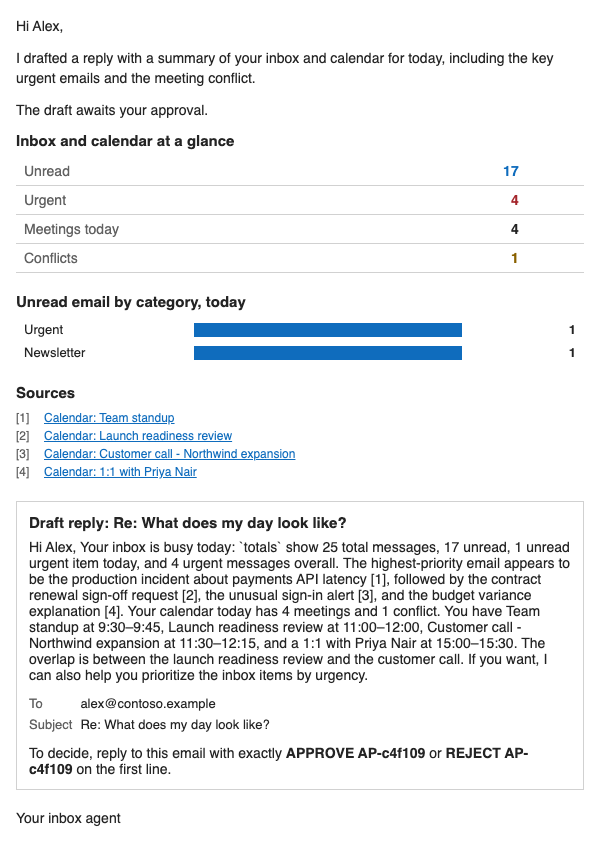
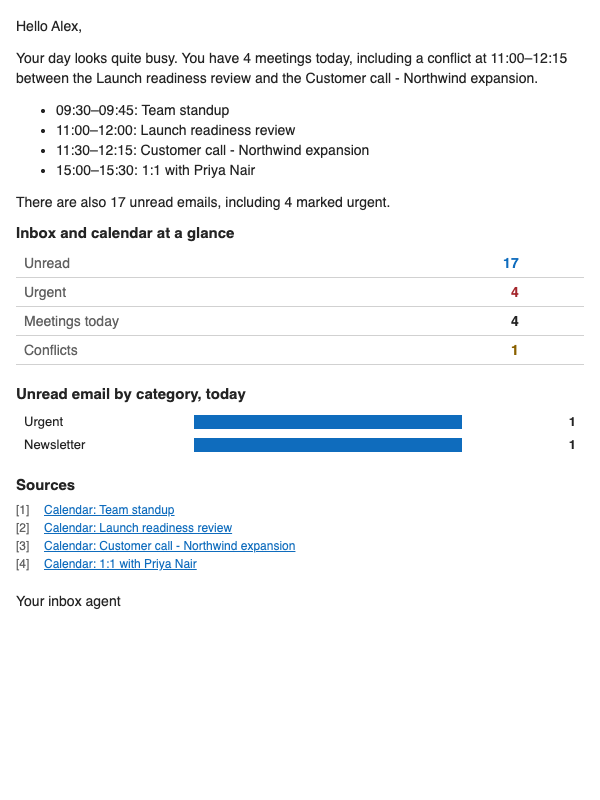
email: answer directly, draft only on request; evidence

diff --git a/.agent-runs/activity-ui-pilot/email-after/1-day/reply.html b/.agent-runs/activity-ui-pilot/email-after/1-day/reply.html
@@ -1,8 +1,1 @@
-<!DOCTYPE html><html lang="en"><head><meta charset="utf-8"><title></title></head><body style="margin:0;padding:0;background-color:#ffffff;"><table role="presentation" width="100%" cellpadding="0" cellspacing="0" border="0"><tr><td align="center"><table role="presentation" width="600" cellpadding="0" cellspacing="0" border="0" style="width:600px;max-width:600px;"><tr><td style="padding:16px;"><p style="margin:0 0 12px 0;font-family:Segoe UI,Helvetica,Arial,sans-serif;font-size:14px;line-height:20px;color:#242424;">Hi Alex,</p><p style="margin:0 0 12px 0;font-family:Segoe UI,Helvetica,Arial,sans-serif;font-size:14px;line-height:20px;color:#242424;">I drafted a reply with a summary of your inbox and calendar for today, including the key urgent emails and the meeting conflict.</p><p style="margin:0 0 12px 0;font-family:Segoe UI,Helvetica,Arial,sans-serif;font-size:14px;line-height:20px;color:#242424;">The draft awaits your approval.</p><table role="presentation" width="100%" cellpadding="0" cellspacing="0" border="0" style="margin:0 0 20px 0;"><tr><td style="font-family:Segoe UI,Helvetica,Arial,sans-serif;font-size:14px;color:#242424;"><p style="margin:0 0 8px 0;font-family:Segoe UI,Helvetica,Arial,sans-serif;font-size:15px;font-weight:bold;color:#242424;">Inbox and calendar at a glance</p><table role="presentation" width="100%" cellpadding="0" cellspacing="0" border="0" style="border-collapse:collapse;"><tr><td style="padding:6px 8px;border-bottom:1px solid #d1d1d1;font-family:Segoe UI,Helvetica,Arial,sans-serif;font-size:14px;color:#616161;">Unread</td><td align="right" style="padding:6px 8px;border-bottom:1px solid #d1d1d1;font-family:Segoe UI,Helvetica,Arial,sans-serif;font-size:14px;font-weight:bold;color:#0f6cbd;">17</td><td align="right" style="padding:6px 8px;border-bottom:1px solid #d1d1d1;font-family:Segoe UI,Helvetica,Arial,sans-serif;font-size:14px;color:#0f6cbd;"></td></tr><tr><td style="padding:6px 8px;border-bottom:1px solid #d1d1d1;font-family:Segoe UI,Helvetica,Arial,sans-serif;font-size:14px;color:#616161;">Urgent</td><td align="right" style="padding:6px 8px;border-bottom:1px solid #d1d1d1;font-family:Segoe UI,Helvetica,Arial,sans-serif;font-size:14px;font-weight:bold;color:#a4262c;">4</td><td align="right" style="padding:6px 8px;border-bottom:1px solid #d1d1d1;font-family:Segoe UI,Helvetica,Arial,sans-serif;font-size:14px;color:#a4262c;"></td></tr><tr><td style="padding:6px 8px;border-bottom:1px solid #d1d1d1;font-family:Segoe UI,Helvetica,Arial,sans-serif;font-size:14px;color:#616161;">Meetings today</td><td align="right" style="padding:6px 8px;border-bottom:1px solid #d1d1d1;font-family:Segoe UI,Helvetica,Arial,sans-serif;font-size:14px;font-weight:bold;color:#242424;">4</td><td align="right" style="padding:6px 8px;border-bottom:1px solid #d1d1d1;font-family:Segoe UI,Helvetica,Arial,sans-serif;font-size:14px;color:#242424;"></td></tr><tr><td style="padding:6px 8px;border-bottom:1px solid #d1d1d1;font-family:Segoe UI,Helvetica,Arial,sans-serif;font-size:14px;color:#616161;">Conflicts</td><td align="right" style="padding:6px 8px;border-bottom:1px solid #d1d1d1;font-family:Segoe UI,Helvetica,Arial,sans-serif;font-size:14px;font-weight:bold;color:#8a6100;">1</td><td align="right" style="padding:6px 8px;border-bottom:1px solid #d1d1d1;font-family:Segoe UI,Helvetica,Arial,sans-serif;font-size:14px;color:#8a6100;"></td></tr></table></td></tr></table><table role="presentation" width="100%" cellpadding="0" cellspacing="0" border="0" style="margin:0 0 20px 0;"><tr><td style="font-family:Segoe UI,Helvetica,Arial,sans-serif;font-size:14px;color:#242424;"><p style="margin:0 0 8px 0;font-family:Segoe UI,Helvetica,Arial,sans-serif;font-size:15px;font-weight:bold;color:#242424;">Unread email by category, today</p><table role="presentation" width="100%" cellpadding="0" cellspacing="0" border="0"><tr><td width="30%" style="padding:4px 8px;font-family:Segoe UI,Helvetica,Arial,sans-serif;font-size:13px;color:#242424;">Urgent</td><td width="50%" style="padding:4px 8px;font-family:Segoe UI,Helvetica,Arial,sans-serif;font-size:13px;"><table role="presentation" width="100%" cellpadding="0" cellspacing="0" border="0"><tr><td width="100%" bgcolor="#0f6cbd" style="background-color:#0f6cbd;font-size:1px;line-height:14px;">&nbsp;</td></tr></table></td><td width="20%" align="right" style="padding:4px 8px;font-family:Segoe UI,Helvetica,Arial,sans-serif;font-size:13px;font-weight:bold;color:#242424;">1</td></tr><tr><td width="30%" style="padding:4px 8px;font-family:Segoe UI,Helvetica,Arial,sans-serif;font-size:13px;color:#242424;">Newsletter</td><td width="50%" style="padding:4px 8px;font-family:Segoe UI,Helvetica,Arial,sans-serif;font-size:13px;"><table role="presentation" width="100%" cellpadding="0" cellspacing="0" border="0"><tr><td width="100%" bgcolor="#0f6cbd" style="background-color:#0f6cbd;font-size:1px;line-height:14px;">&nbsp;</td></tr></table></td><td width="20%" align="right" style="padding:4px 8px;font-family:Segoe UI,Helvetica,Arial,sans-serif;font-size:13px;font-weight:bold;color:#242424;">1</td></tr></table></td></tr></table><table role="presentation" width="100%" cellpadding="0" cellspacing="0" border="0" style="margin:0 0 20px 0;"><tr><td style="font-family:Segoe UI,Helvetica,Arial,sans-serif;font-size:14px;color:#242424;"><p style="margin:0 0 8px 0;font-family:Segoe UI,Helvetica,Arial,sans-serif;font-size:15px;font-weight:bold;color:#242424;">Sources</p><table role="presentation" width="100%" cellpadding="0" cellspacing="0" border="0"><tr><td valign="top" width="28" style="padding:2px 0;font-family:Segoe UI,Helvetica,Arial,sans-serif;font-size:12px;color:#616161;">[1]</td><td style="padding:2px 0;font-family:Segoe UI,Helvetica,Arial,sans-serif;font-size:12px;color:#616161;"><a href="https://outlook.office.com/calendar/item/AAEv-1126-001" style="color:#0f6cbd;">Calendar: Team standup</a></td></tr><tr><td valign="top" width="28" style="padding:2px 0;font-family:Segoe UI,Helvetica,Arial,sans-serif;font-size:12px;color:#616161;">[2]</td><td style="padding:2px 0;font-family:Segoe UI,Helvetica,Arial,sans-serif;font-size:12px;color:#616161;"><a href="https://outlook.office.com/calendar/item/AAEv-1126-002" style="color:#0f6cbd;">Calendar: Launch readiness review</a></td></tr><tr><td valign="top" width="28" style="padding:2px 0;font-family:Segoe UI,Helvetica,Arial,sans-serif;font-size:12px;color:#616161;">[3]</td><td style="padding:2px 0;font-family:Segoe UI,Helvetica,Arial,sans-serif;font-size:12px;color:#616161;"><a href="https://outlook.office.com/calendar/item/AAEv-1126-003" style="color:#0f6cbd;">Calendar: Customer call - Northwind expansion</a></td></tr><tr><td valign="top" width="28" style="padding:2px 0;font-family:Segoe UI,Helvetica,Arial,sans-serif;font-size:12px;color:#616161;">[4]</td><td style="padding:2px 0;font-family:Segoe UI,Helvetica,Arial,sans-serif;font-size:12px;color:#616161;"><a href="https://outlook.office.com/calendar/item/AAEv-1126-004" style="color:#0f6cbd;">Calendar: 1:1 with Priya Nair</a></td></tr></table></td></tr></table><table role="presentation" width="100%" cellpadding="0" cellspacing="0" border="0" style="margin:0 0 20px 0;"><tr><td style="font-family:Segoe UI,Helvetica,Arial,sans-serif;font-size:14px;color:#242424;"><table role="presentation" width="100%" cellpadding="0" cellspacing="0" border="0" style="border:1px solid #d1d1d1;"><tr><td style="padding:12px;font-family:Segoe UI,Helvetica,Arial,sans-serif;font-size:14px;color:#242424;"><p style="margin:0 0 8px 0;font-family:Segoe UI,Helvetica,Arial,sans-serif;font-size:15px;font-weight:bold;color:#242424;">Draft reply: Re: What does my day look like?</p><p style="margin:0 0 10px 0;">Hi Alex,
-
-Your inbox is busy today: `totals` show 25 total messages, 17 unread, 1 unread urgent item today, and 4 urgent messages overall. The highest-priority email appears to be the production incident about payments API latency [1], followed by the contract renewal sign-off request [2], the unusual sign-in alert [3], and the budget variance explanation [4].
-
-Your calendar today has 4 meetings and 1 conflict. You have Team standup at 9:30–9:45, Launch readiness review at 11:00–12:00, Customer call - Northwind expansion at 11:30–12:15, and a 1:1 with Priya Nair at 15:00–15:30. The overlap is between the launch readiness review and the customer call.
-
-If you want, I can also help you prioritize the inbox items by urgency.
-</p><table role="presentation" cellpadding="0" cellspacing="0" border="0" style="margin:0 0 10px 0;"><tr><td style="padding:3px 8px 3px 0;font-family:Segoe UI,Helvetica,Arial,sans-serif;font-size:13px;color:#616161;">To</td><td style="padding:3px 0;font-family:Segoe UI,Helvetica,Arial,sans-serif;font-size:13px;color:#242424;">alex@contoso.example</td></tr><tr><td style="padding:3px 8px 3px 0;font-family:Segoe UI,Helvetica,Arial,sans-serif;font-size:13px;color:#616161;">Subject</td><td style="padding:3px 0;font-family:Segoe UI,Helvetica,Arial,sans-serif;font-size:13px;color:#242424;">Re: What does my day look like?</td></tr></table><p style="margin:0;font-family:Segoe UI,Helvetica,Arial,sans-serif;font-size:14px;color:#242424;">To decide, reply to this email with exactly <strong>APPROVE AP-c4f109</strong> or <strong>REJECT AP-c4f109</strong> on the first line.</p></td></tr></table></td></tr></table><p style="margin:0;font-family:Segoe UI,Helvetica,Arial,sans-serif;font-size:14px;color:#242424;">Your inbox agent</p></td></tr></table></td></tr></table></body></html>
+<!DOCTYPE html><html lang="en"><head><meta charset="utf-8"><title></title></head><body style="margin:0;padding:0;background-color:#ffffff;"><table role="presentation" width="100%" cellpadding="0" cellspacing="0" border="0"><tr><td align="center"><table role="presentation" width="600" cellpadding="0" cellspacing="0" border="0" style="width:600px;max-width:600px;"><tr><td style="padding:16px;"><p style="margin:0 0 12px 0;font-family:Segoe UI,Helvetica,Arial,sans-serif;font-size:14px;line-height:20px;color:#242424;">Hello Alex,</p><p style="margin:0 0 12px 0;font-family:Segoe UI,Helvetica,Arial,sans-serif;font-size:14px;line-height:20px;color:#242424;">Your day looks quite busy. You have 4 meetings today, including a conflict at 11:00–12:15 between the Launch readiness review and the Customer call - Northwind expansion.</p><ul style="margin:0 0 12px 0;font-family:Segoe UI,Helvetica,Arial,sans-serif;font-size:14px;line-height:20px;color:#242424;"><li>09:30–09:45: Team standup</li><li>11:00–12:00: Launch readiness review</li><li>11:30–12:15: Customer call - Northwind expansion</li><li>15:00–15:30: 1:1 with Priya Nair</li></ul><p style="margin:0 0 12px 0;font-family:Segoe UI,Helvetica,Arial,sans-serif;font-size:14px;line-height:20px;color:#242424;">There are also 17 unread emails, including 4 marked urgent.</p><table role="presentation" width="100%" cellpadding="0" cellspacing="0" border="0" style="margin:0 0 20px 0;"><tr><td style="font-family:Segoe UI,Helvetica,Arial,sans-serif;font-size:14px;color:#242424;"><p style="margin:0 0 8px 0;font-family:Segoe UI,Helvetica,Arial,sans-serif;font-size:15px;font-weight:bold;color:#242424;">Inbox and calendar at a glance</p><table role="presentation" width="100%" cellpadding="0" cellspacing="0" border="0" style="border-collapse:collapse;"><tr><td style="padding:6px 8px;border-bottom:1px solid #d1d1d1;font-family:Segoe UI,Helvetica,Arial,sans-serif;font-size:14px;color:#616161;">Unread</td><td align="right" style="padding:6px 8px;border-bottom:1px solid #d1d1d1;font-family:Segoe UI,Helvetica,Arial,sans-serif;font-size:14px;font-weight:bold;color:#0f6cbd;">17</td><td align="right" style="padding:6px 8px;border-bottom:1px solid #d1d1d1;font-family:Segoe UI,Helvetica,Arial,sans-serif;font-size:14px;color:#0f6cbd;"></td></tr><tr><td style="padding:6px 8px;border-bottom:1px solid #d1d1d1;font-family:Segoe UI,Helvetica,Arial,sans-serif;font-size:14px;color:#616161;">Urgent</td><td align="right" style="padding:6px 8px;border-bottom:1px solid #d1d1d1;font-family:Segoe UI,Helvetica,Arial,sans-serif;font-size:14px;font-weight:bold;color:#a4262c;">4</td><td align="right" style="padding:6px 8px;border-bottom:1px solid #d1d1d1;font-family:Segoe UI,Helvetica,Arial,sans-serif;font-size:14px;color:#a4262c;"></td></tr><tr><td style="padding:6px 8px;border-bottom:1px solid #d1d1d1;font-family:Segoe UI,Helvetica,Arial,sans-serif;font-size:14px;color:#616161;">Meetings today</td><td align="right" style="padding:6px 8px;border-bottom:1px solid #d1d1d1;font-family:Segoe UI,Helvetica,Arial,sans-serif;font-size:14px;font-weight:bold;color:#242424;">4</td><td align="right" style="padding:6px 8px;border-bottom:1px solid #d1d1d1;font-family:Segoe UI,Helvetica,Arial,sans-serif;font-size:14px;color:#242424;"></td></tr><tr><td style="padding:6px 8px;border-bottom:1px solid #d1d1d1;font-family:Segoe UI,Helvetica,Arial,sans-serif;font-size:14px;color:#616161;">Conflicts</td><td align="right" style="padding:6px 8px;border-bottom:1px solid #d1d1d1;font-family:Segoe UI,Helvetica,Arial,sans-serif;font-size:14px;font-weight:bold;color:#8a6100;">1</td><td align="right" style="padding:6px 8px;border-bottom:1px solid #d1d1d1;font-family:Segoe UI,Helvetica,Arial,sans-serif;font-size:14px;color:#8a6100;"></td></tr></table></td></tr></table><table role="presentation" width="100%" cellpadding="0" cellspacing="0" border="0" style="margin:0 0 20px 0;"><tr><td style="font-family:Segoe UI,Helvetica,Arial,sans-serif;font-size:14px;color:#242424;"><p style="margin:0 0 8px 0;font-family:Segoe UI,Helvetica,Arial,sans-serif;font-size:15px;font-weight:bold;color:#242424;">Unread email by category, today</p><table role="presentation" width="100%" cellpadding="0" cellspacing="0" border="0"><tr><td width="30%" style="padding:4px 8px;font-family:Segoe UI,Helvetica,Arial,sans-serif;font-size:13px;color:#242424;">Urgent</td><td width="50%" style="padding:4px 8px;font-family:Segoe UI,Helvetica,Arial,sans-serif;font-size:13px;"><table role="presentation" width="100%" cellpadding="0" cellspacing="0" border="0"><tr><td width="100%" bgcolor="#0f6cbd" style="background-color:#0f6cbd;font-size:1px;line-height:14px;">&nbsp;</td></tr></table></td><td width="20%" align="right" style="padding:4px 8px;font-family:Segoe UI,Helvetica,Arial,sans-serif;font-size:13px;font-weight:bold;color:#242424;">1</td></tr><tr><td width="30%" style="padding:4px 8px;font-family:Segoe UI,Helvetica,Arial,sans-serif;font-size:13px;color:#242424;">Newsletter</td><td width="50%" style="padding:4px 8px;font-family:Segoe UI,Helvetica,Arial,sans-serif;font-size:13px;"><table role="presentation" width="100%" cellpadding="0" cellspacing="0" border="0"><tr><td width="100%" bgcolor="#0f6cbd" style="background-color:#0f6cbd;font-size:1px;line-height:14px;">&nbsp;</td></tr></table></td><td width="20%" align="right" style="padding:4px 8px;font-family:Segoe UI,Helvetica,Arial,sans-serif;font-size:13px;font-weight:bold;color:#242424;">1</td></tr></table></td></tr></table><table role="presentation" width="100%" cellpadding="0" cellspacing="0" border="0" style="margin:0 0 20px 0;"><tr><td style="font-family:Segoe UI,Helvetica,Arial,sans-serif;font-size:14px;color:#242424;"><p style="margin:0 0 8px 0;font-family:Segoe UI,Helvetica,Arial,sans-serif;font-size:15px;font-weight:bold;color:#242424;">Sources</p><table role="presentation" width="100%" cellpadding="0" cellspacing="0" border="0"><tr><td valign="top" width="28" style="padding:2px 0;font-family:Segoe UI,Helvetica,Arial,sans-serif;font-size:12px;color:#616161;">[1]</td><td style="padding:2px 0;font-family:Segoe UI,Helvetica,Arial,sans-serif;font-size:12px;color:#616161;"><a href="https://outlook.office.com/calendar/item/AAEv-1126-001" style="color:#0f6cbd;">Calendar: Team standup</a></td></tr><tr><td valign="top" width="28" style="padding:2px 0;font-family:Segoe UI,Helvetica,Arial,sans-serif;font-size:12px;color:#616161;">[2]</td><td style="padding:2px 0;font-family:Segoe UI,Helvetica,Arial,sans-serif;font-size:12px;color:#616161;"><a href="https://outlook.office.com/calendar/item/AAEv-1126-002" style="color:#0f6cbd;">Calendar: Launch readiness review</a></td></tr><tr><td valign="top" width="28" style="padding:2px 0;font-family:Segoe UI,Helvetica,Arial,sans-serif;font-size:12px;color:#616161;">[3]</td><td style="padding:2px 0;font-family:Segoe UI,Helvetica,Arial,sans-serif;font-size:12px;color:#616161;"><a href="https://outlook.office.com/calendar/item/AAEv-1126-003" style="color:#0f6cbd;">Calendar: Customer call - Northwind expansion</a></td></tr><tr><td valign="top" width="28" style="padding:2px 0;font-family:Segoe UI,Helvetica,Arial,sans-serif;font-size:12px;color:#616161;">[4]</td><td style="padding:2px 0;font-family:Segoe UI,Helvetica,Arial,sans-serif;font-size:12px;color:#616161;"><a href="https://outlook.office.com/calendar/item/AAEv-1126-004" style="color:#0f6cbd;">Calendar: 1:1 with Priya Nair</a></td></tr></table></td></tr></table><p style="margin:0;font-family:Segoe UI,Helvetica,Arial,sans-serif;font-size:14px;color:#242424;">Your inbox agent</p></td></tr></table></td></tr></table></body></html>

diff --git a/.agent-runs/activity-ui-pilot/email-after/2-draft/reply.html b/.agent-runs/activity-ui-pilot/email-after/2-draft/reply.html
@@ -1,8 +1,8 @@
-<!DOCTYPE html><html lang="en"><head><meta charset="utf-8"><title></title></head><body style="margin:0;padding:0;background-color:#ffffff;"><table role="presentation" width="100%" cellpadding="0" cellspacing="0" border="0"><tr><td align="center"><table role="presentation" width="600" cellpadding="0" cellspacing="0" border="0" style="width:600px;max-width:600px;"><tr><td style="padding:16px;"><p style="margin:0 0 12px 0;font-family:Segoe UI,Helvetica,Arial,sans-serif;font-size:14px;line-height:20px;color:#242424;">The draft is ready and awaits your approval.</p><table role="presentation" width="100%" cellpadding="0" cellspacing="0" border="0" style="margin:0 0 20px 0;"><tr><td style="font-family:Segoe UI,Helvetica,Arial,sans-serif;font-size:14px;color:#242424;"><p style="margin:0 0 8px 0;font-family:Segoe UI,Helvetica,Arial,sans-serif;font-size:15px;font-weight:bold;color:#242424;">Inbox and calendar at a glance</p><table role="presentation" width="100%" cellpadding="0" cellspacing="0" border="0" style="border-collapse:collapse;"><tr><td style="padding:6px 8px;border-bottom:1px solid #d1d1d1;font-family:Segoe UI,Helvetica,Arial,sans-serif;font-size:14px;color:#616161;">Unread</td><td align="right" style="padding:6px 8px;border-bottom:1px solid #d1d1d1;font-family:Segoe UI,Helvetica,Arial,sans-serif;font-size:14px;font-weight:bold;color:#0f6cbd;">17</td><td align="right" style="padding:6px 8px;border-bottom:1px solid #d1d1d1;font-family:Segoe UI,Helvetica,Arial,sans-serif;font-size:14px;color:#0f6cbd;"></td></tr><tr><td style="padding:6px 8px;border-bottom:1px solid #d1d1d1;font-family:Segoe UI,Helvetica,Arial,sans-serif;font-size:14px;color:#616161;">Urgent</td><td align="right" style="padding:6px 8px;border-bottom:1px solid #d1d1d1;font-family:Segoe UI,Helvetica,Arial,sans-serif;font-size:14px;font-weight:bold;color:#a4262c;">4</td><td align="right" style="padding:6px 8px;border-bottom:1px solid #d1d1d1;font-family:Segoe UI,Helvetica,Arial,sans-serif;font-size:14px;color:#a4262c;"></td></tr><tr><td style="padding:6px 8px;border-bottom:1px solid #d1d1d1;font-family:Segoe UI,Helvetica,Arial,sans-serif;font-size:14px;color:#616161;">Meetings today</td><td align="right" style="padding:6px 8px;border-bottom:1px solid #d1d1d1;font-family:Segoe UI,Helvetica,Arial,sans-serif;font-size:14px;font-weight:bold;color:#242424;">4</td><td align="right" style="padding:6px 8px;border-bottom:1px solid #d1d1d1;font-family:Segoe UI,Helvetica,Arial,sans-serif;font-size:14px;color:#242424;"></td></tr><tr><td style="padding:6px 8px;border-bottom:1px solid #d1d1d1;font-family:Segoe UI,Helvetica,Arial,sans-serif;font-size:14px;color:#616161;">Conflicts</td><td align="right" style="padding:6px 8px;border-bottom:1px solid #d1d1d1;font-family:Segoe UI,Helvetica,Arial,sans-serif;font-size:14px;font-weight:bold;color:#8a6100;">1</td><td align="right" style="padding:6px 8px;border-bottom:1px solid #d1d1d1;font-family:Segoe UI,Helvetica,Arial,sans-serif;font-size:14px;color:#8a6100;"></td></tr></table></td></tr></table><table role="presentation" width="100%" cellpadding="0" cellspacing="0" border="0" style="margin:0 0 20px 0;"><tr><td style="font-family:Segoe UI,Helvetica,Arial,sans-serif;font-size:14px;color:#242424;"><p style="margin:0 0 8px 0;font-family:Segoe UI,Helvetica,Arial,sans-serif;font-size:15px;font-weight:bold;color:#242424;">Unread email by category, today</p><table role="presentation" width="100%" cellpadding="0" cellspacing="0" border="0"><tr><td width="30%" style="padding:4px 8px;font-family:Segoe UI,Helvetica,Arial,sans-serif;font-size:13px;color:#242424;">Urgent</td><td width="50%" style="padding:4px 8px;font-family:Segoe UI,Helvetica,Arial,sans-serif;font-size:13px;"><table role="presentation" width="100%" cellpadding="0" cellspacing="0" border="0"><tr><td width="100%" bgcolor="#0f6cbd" style="background-color:#0f6cbd;font-size:1px;line-height:14px;">&nbsp;</td></tr></table></td><td width="20%" align="right" style="padding:4px 8px;font-family:Segoe UI,Helvetica,Arial,sans-serif;font-size:13px;font-weight:bold;color:#242424;">1</td></tr><tr><td width="30%" style="padding:4px 8px;font-family:Segoe UI,Helvetica,Arial,sans-serif;font-size:13px;color:#242424;">Newsletter</td><td width="50%" style="padding:4px 8px;font-family:Segoe UI,Helvetica,Arial,sans-serif;font-size:13px;"><table role="presentation" width="100%" cellpadding="0" cellspacing="0" border="0"><tr><td width="100%" bgcolor="#0f6cbd" style="background-color:#0f6cbd;font-size:1px;line-height:14px;">&nbsp;</td></tr></table></td><td width="20%" align="right" style="padding:4px 8px;font-family:Segoe UI,Helvetica,Arial,sans-serif;font-size:13px;font-weight:bold;color:#242424;">1</td></tr></table></td></tr></table><table role="presentation" width="100%" cellpadding="0" cellspacing="0" border="0" style="margin:0 0 20px 0;"><tr><td style="font-family:Segoe UI,Helvetica,Arial,sans-serif;font-size:14px;color:#242424;"><table role="presentation" width="100%" cellpadding="0" cellspacing="0" border="0" style="border:1px solid #d1d1d1;"><tr><td style="padding:12px;font-family:Segoe UI,Helvetica,Arial,sans-serif;font-size:14px;color:#242424;"><p style="margin:0 0 8px 0;font-family:Segoe UI,Helvetica,Arial,sans-serif;font-size:15px;font-weight:bold;color:#242424;">Draft reply: INC-5826</p><p style="margin:0 0 10px 0;">Hi Tom,
+<!DOCTYPE html><html lang="en"><head><meta charset="utf-8"><title></title></head><body style="margin:0;padding:0;background-color:#ffffff;"><table role="presentation" width="100%" cellpadding="0" cellspacing="0" border="0"><tr><td align="center"><table role="presentation" width="600" cellpadding="0" cellspacing="0" border="0" style="width:600px;max-width:600px;"><tr><td style="padding:16px;"><p style="margin:0 0 12px 0;font-family:Segoe UI,Helvetica,Arial,sans-serif;font-size:14px;line-height:20px;color:#242424;">The draft reply is ready and awaits your approval.</p><table role="presentation" width="100%" cellpadding="0" cellspacing="0" border="0" style="margin:0 0 20px 0;"><tr><td style="font-family:Segoe UI,Helvetica,Arial,sans-serif;font-size:14px;color:#242424;"><p style="margin:0 0 8px 0;font-family:Segoe UI,Helvetica,Arial,sans-serif;font-size:15px;font-weight:bold;color:#242424;">Inbox and calendar at a glance</p><table role="presentation" width="100%" cellpadding="0" cellspacing="0" border="0" style="border-collapse:collapse;"><tr><td style="padding:6px 8px;border-bottom:1px solid #d1d1d1;font-family:Segoe UI,Helvetica,Arial,sans-serif;font-size:14px;color:#616161;">Unread</td><td align="right" style="padding:6px 8px;border-bottom:1px solid #d1d1d1;font-family:Segoe UI,Helvetica,Arial,sans-serif;font-size:14px;font-weight:bold;color:#0f6cbd;">17</td><td align="right" style="padding:6px 8px;border-bottom:1px solid #d1d1d1;font-family:Segoe UI,Helvetica,Arial,sans-serif;font-size:14px;color:#0f6cbd;"></td></tr><tr><td style="padding:6px 8px;border-bottom:1px solid #d1d1d1;font-family:Segoe UI,Helvetica,Arial,sans-serif;font-size:14px;color:#616161;">Urgent</td><td align="right" style="padding:6px 8px;border-bottom:1px solid #d1d1d1;font-family:Segoe UI,Helvetica,Arial,sans-serif;font-size:14px;font-weight:bold;color:#a4262c;">4</td><td align="right" style="padding:6px 8px;border-bottom:1px solid #d1d1d1;font-family:Segoe UI,Helvetica,Arial,sans-serif;font-size:14px;color:#a4262c;"></td></tr><tr><td style="padding:6px 8px;border-bottom:1px solid #d1d1d1;font-family:Segoe UI,Helvetica,Arial,sans-serif;font-size:14px;color:#616161;">Meetings today</td><td align="right" style="padding:6px 8px;border-bottom:1px solid #d1d1d1;font-family:Segoe UI,Helvetica,Arial,sans-serif;font-size:14px;font-weight:bold;color:#242424;">4</td><td align="right" style="padding:6px 8px;border-bottom:1px solid #d1d1d1;font-family:Segoe UI,Helvetica,Arial,sans-serif;font-size:14px;color:#242424;"></td></tr><tr><td style="padding:6px 8px;border-bottom:1px solid #d1d1d1;font-family:Segoe UI,Helvetica,Arial,sans-serif;font-size:14px;color:#616161;">Conflicts</td><td align="right" style="padding:6px 8px;border-bottom:1px solid #d1d1d1;font-family:Segoe UI,Helvetica,Arial,sans-serif;font-size:14px;font-weight:bold;color:#8a6100;">1</td><td align="right" style="padding:6px 8px;border-bottom:1px solid #d1d1d1;font-family:Segoe UI,Helvetica,Arial,sans-serif;font-size:14px;color:#8a6100;"></td></tr></table></td></tr></table><table role="presentation" width="100%" cellpadding="0" cellspacing="0" border="0" style="margin:0 0 20px 0;"><tr><td style="font-family:Segoe UI,Helvetica,Arial,sans-serif;font-size:14px;color:#242424;"><p style="margin:0 0 8px 0;font-family:Segoe UI,Helvetica,Arial,sans-serif;font-size:15px;font-weight:bold;color:#242424;">Unread email by category, today</p><table role="presentation" width="100%" cellpadding="0" cellspacing="0" border="0"><tr><td width="30%" style="padding:4px 8px;font-family:Segoe UI,Helvetica,Arial,sans-serif;font-size:13px;color:#242424;">Urgent</td><td width="50%" style="padding:4px 8px;font-family:Segoe UI,Helvetica,Arial,sans-serif;font-size:13px;"><table role="presentation" width="100%" cellpadding="0" cellspacing="0" border="0"><tr><td width="100%" bgcolor="#0f6cbd" style="background-color:#0f6cbd;font-size:1px;line-height:14px;">&nbsp;</td></tr></table></td><td width="20%" align="right" style="padding:4px 8px;font-family:Segoe UI,Helvetica,Arial,sans-serif;font-size:13px;font-weight:bold;color:#242424;">1</td></tr><tr><td width="30%" style="padding:4px 8px;font-family:Segoe UI,Helvetica,Arial,sans-serif;font-size:13px;color:#242424;">Newsletter</td><td width="50%" style="padding:4px 8px;font-family:Segoe UI,Helvetica,Arial,sans-serif;font-size:13px;"><table role="presentation" width="100%" cellpadding="0" cellspacing="0" border="0"><tr><td width="100%" bgcolor="#0f6cbd" style="background-color:#0f6cbd;font-size:1px;line-height:14px;">&nbsp;</td></tr></table></td><td width="20%" align="right" style="padding:4px 8px;font-family:Segoe UI,Helvetica,Arial,sans-serif;font-size:13px;font-weight:bold;color:#242424;">1</td></tr></table></td></tr></table><table role="presentation" width="100%" cellpadding="0" cellspacing="0" border="0" style="margin:0 0 20px 0;"><tr><td style="font-family:Segoe UI,Helvetica,Arial,sans-serif;font-size:14px;color:#242424;"><table role="presentation" width="100%" cellpadding="0" cellspacing="0" border="0" style="border:1px solid #d1d1d1;"><tr><td style="padding:12px;font-family:Segoe UI,Helvetica,Arial,sans-serif;font-size:14px;color:#242424;"><p style="margin:0 0 8px 0;font-family:Segoe UI,Helvetica,Arial,sans-serif;font-size:15px;font-weight:bold;color:#242424;">Draft reply: INC-5826</p><p style="margin:0 0 10px 0;">Hi Tom,
 
-Yes — I can join the mitigation call and help coordinate next steps.
+Yes, I can join the mitigation call and help coordinate next steps.
 
-Please send the meeting link and any current status updates, and I will join right away.
+Please send the meeting details and any current findings. I will review them and join promptly.
 
 Best,
-Alex</p><table role="presentation" cellpadding="0" cellspacing="0" border="0" style="margin:0 0 10px 0;"><tr><td style="padding:3px 8px 3px 0;font-family:Segoe UI,Helvetica,Arial,sans-serif;font-size:13px;color:#616161;">To</td><td style="padding:3px 0;font-family:Segoe UI,Helvetica,Arial,sans-serif;font-size:13px;color:#242424;">Tom Becker &lt;tom.becker@contoso.example&gt;</td></tr><tr><td style="padding:3px 8px 3px 0;font-family:Segoe UI,Helvetica,Arial,sans-serif;font-size:13px;color:#616161;">Subject</td><td style="padding:3px 0;font-family:Segoe UI,Helvetica,Arial,sans-serif;font-size:13px;color:#242424;">Re: Production incident INC-5826: payments API latency</td></tr></table><p style="margin:0;font-family:Segoe UI,Helvetica,Arial,sans-serif;font-size:14px;color:#242424;">To decide, reply to this email with exactly <strong>APPROVE AP-4121e2</strong> or <strong>REJECT AP-4121e2</strong> on the first line.</p></td></tr></table></td></tr></table><p style="margin:0;font-family:Segoe UI,Helvetica,Arial,sans-serif;font-size:14px;color:#242424;">Your inbox agent</p></td></tr></table></td></tr></table></body></html>
+Alex</p><table role="presentation" cellpadding="0" cellspacing="0" border="0" style="margin:0 0 10px 0;"><tr><td style="padding:3px 8px 3px 0;font-family:Segoe UI,Helvetica,Arial,sans-serif;font-size:13px;color:#616161;">To</td><td style="padding:3px 0;font-family:Segoe UI,Helvetica,Arial,sans-serif;font-size:13px;color:#242424;">tom.becker@contoso.example</td></tr><tr><td style="padding:3px 8px 3px 0;font-family:Segoe UI,Helvetica,Arial,sans-serif;font-size:13px;color:#616161;">Subject</td><td style="padding:3px 0;font-family:Segoe UI,Helvetica,Arial,sans-serif;font-size:13px;color:#242424;">Re: Production incident INC-5826: payments API latency</td></tr></table><p style="margin:0;font-family:Segoe UI,Helvetica,Arial,sans-serif;font-size:14px;color:#242424;">To decide, reply to this email with exactly <strong>APPROVE AP-81371a</strong> or <strong>REJECT AP-81371a</strong> on the first line.</p></td></tr></table></td></tr></table><p style="margin:0;font-family:Segoe UI,Helvetica,Arial,sans-serif;font-size:14px;color:#242424;">Your inbox agent</p></td></tr></table></td></tr></table></body></html>

diff --git a/.agent-runs/activity-ui-pilot/email-after/3-approve/reply.html b/.agent-runs/activity-ui-pilot/email-after/3-approve/reply.html
@@ -1,1 +1,1 @@
-<!DOCTYPE html><html lang="en"><head><meta charset="utf-8"><title></title></head><body style="margin:0;padding:0;background-color:#ffffff;"><table role="presentation" width="100%" cellpadding="0" cellspacing="0" border="0"><tr><td align="center"><table role="presentation" width="600" cellpadding="0" cellspacing="0" border="0" style="width:600px;max-width:600px;"><tr><td style="padding:16px;"><p style="margin:0 0 12px 0;font-family:Segoe UI,Helvetica,Arial,sans-serif;font-size:14px;line-height:20px;color:#242424;">Approved: <strong>Draft reply: INC-5826</strong> (AP-4121e2) has been sent.</p><table role="presentation" width="100%" cellpadding="0" cellspacing="0" border="0" style="margin:0 0 20px 0;"><tr><td style="font-family:Segoe UI,Helvetica,Arial,sans-serif;font-size:14px;color:#242424;"><p style="margin:0 0 8px 0;font-family:Segoe UI,Helvetica,Arial,sans-serif;font-size:15px;font-weight:bold;color:#242424;">Sent (mock)</p><table role="presentation" width="100%" cellpadding="0" cellspacing="0" border="0" style="border-collapse:collapse;"><tr><td style="padding:6px 8px;border-bottom:1px solid #d1d1d1;font-family:Segoe UI,Helvetica,Arial,sans-serif;font-size:14px;color:#616161;">To</td><td align="right" style="padding:6px 8px;border-bottom:1px solid #d1d1d1;font-family:Segoe UI,Helvetica,Arial,sans-serif;font-size:14px;font-weight:bold;color:#242424;">Tom Becker &lt;tom.becker@contoso.example&gt;</td><td align="right" style="padding:6px 8px;border-bottom:1px solid #d1d1d1;font-family:Segoe UI,Helvetica,Arial,sans-serif;font-size:14px;color:#242424;"></td></tr><tr><td style="padding:6px 8px;border-bottom:1px solid #d1d1d1;font-family:Segoe UI,Helvetica,Arial,sans-serif;font-size:14px;color:#616161;">Subject</td><td align="right" style="padding:6px 8px;border-bottom:1px solid #d1d1d1;font-family:Segoe UI,Helvetica,Arial,sans-serif;font-size:14px;font-weight:bold;color:#242424;">Re: Production incident INC-5826: payments API latency</td><td align="right" style="padding:6px 8px;border-bottom:1px solid #d1d1d1;font-family:Segoe UI,Helvetica,Arial,sans-serif;font-size:14px;color:#242424;"></td></tr></table></td></tr></table><p style="margin:0;font-family:Segoe UI,Helvetica,Arial,sans-serif;font-size:14px;color:#242424;">Your inbox agent</p></td></tr></table></td></tr></table></body></html>
+<!DOCTYPE html><html lang="en"><head><meta charset="utf-8"><title></title></head><body style="margin:0;padding:0;background-color:#ffffff;"><table role="presentation" width="100%" cellpadding="0" cellspacing="0" border="0"><tr><td align="center"><table role="presentation" width="600" cellpadding="0" cellspacing="0" border="0" style="width:600px;max-width:600px;"><tr><td style="padding:16px;"><p style="margin:0 0 12px 0;font-family:Segoe UI,Helvetica,Arial,sans-serif;font-size:14px;line-height:20px;color:#242424;">Approved: <strong>Draft reply: INC-5826</strong> (AP-81371a) has been sent.</p><table role="presentation" width="100%" cellpadding="0" cellspacing="0" border="0" style="margin:0 0 20px 0;"><tr><td style="font-family:Segoe UI,Helvetica,Arial,sans-serif;font-size:14px;color:#242424;"><p style="margin:0 0 8px 0;font-family:Segoe UI,Helvetica,Arial,sans-serif;font-size:15px;font-weight:bold;color:#242424;">Sent (mock)</p><table role="presentation" width="100%" cellpadding="0" cellspacing="0" border="0" style="border-collapse:collapse;"><tr><td style="padding:6px 8px;border-bottom:1px solid #d1d1d1;font-family:Segoe UI,Helvetica,Arial,sans-serif;font-size:14px;color:#616161;">To</td><td align="right" style="padding:6px 8px;border-bottom:1px solid #d1d1d1;font-family:Segoe UI,Helvetica,Arial,sans-serif;font-size:14px;font-weight:bold;color:#242424;">tom.becker@contoso.example</td><td align="right" style="padding:6px 8px;border-bottom:1px solid #d1d1d1;font-family:Segoe UI,Helvetica,Arial,sans-serif;font-size:14px;color:#242424;"></td></tr><tr><td style="padding:6px 8px;border-bottom:1px solid #d1d1d1;font-family:Segoe UI,Helvetica,Arial,sans-serif;font-size:14px;color:#616161;">Subject</td><td align="right" style="padding:6px 8px;border-bottom:1px solid #d1d1d1;font-family:Segoe UI,Helvetica,Arial,sans-serif;font-size:14px;font-weight:bold;color:#242424;">Re: Production incident INC-5826: payments API latency</td><td align="right" style="padding:6px 8px;border-bottom:1px solid #d1d1d1;font-family:Segoe UI,Helvetica,Arial,sans-serif;font-size:14px;color:#242424;"></td></tr></table></td></tr></table><p style="margin:0;font-family:Segoe UI,Helvetica,Arial,sans-serif;font-size:14px;color:#242424;">Your inbox agent</p></td></tr></table></td></tr></table></body></html>

diff --git a/.agent-runs/activity-ui-pilot/email-after/4a-repeat/reply.html b/.agent-runs/activity-ui-pilot/email-after/4a-repeat/reply.html
@@ -1,1 +1,1 @@
-<!DOCTYPE html><html lang="en"><head><meta charset="utf-8"><title></title></head><body style="margin:0;padding:0;background-color:#ffffff;"><table role="presentation" width="100%" cellpadding="0" cellspacing="0" border="0"><tr><td align="center"><table role="presentation" width="600" cellpadding="0" cellspacing="0" border="0" style="width:600px;max-width:600px;"><tr><td style="padding:16px;"><p style="margin:0 0 12px 0;font-family:Segoe UI,Helvetica,Arial,sans-serif;font-size:14px;line-height:20px;color:#242424;">Proposal <strong>AP-4121e2</strong> was already decided (approved by alex@contoso.example). No further action was taken and nothing more was sent.</p><p style="margin:0;font-family:Segoe UI,Helvetica,Arial,sans-serif;font-size:14px;color:#242424;">Your inbox agent</p></td></tr></table></td></tr></table></body></html>
+<!DOCTYPE html><html lang="en"><head><meta charset="utf-8"><title></title></head><body style="margin:0;padding:0;background-color:#ffffff;"><table role="presentation" width="100%" cellpadding="0" cellspacing="0" border="0"><tr><td align="center"><table role="presentation" width="600" cellpadding="0" cellspacing="0" border="0" style="width:600px;max-width:600px;"><tr><td style="padding:16px;"><p style="margin:0 0 12px 0;font-family:Segoe UI,Helvetica,Arial,sans-serif;font-size:14px;line-height:20px;color:#242424;">Proposal <strong>AP-81371a</strong> was already decided (approved by alex@contoso.example). No further action was taken and nothing more was sent.</p><p style="margin:0;font-family:Segoe UI,Helvetica,Arial,sans-serif;font-size:14px;color:#242424;">Your inbox agent</p></td></tr></table></td></tr></table></body></html>

diff --git a/agents/advanced-autopilot-agent/hello_world_a365_agent/agent.py b/agents/advanced-autopilot-agent/hello_world_a365_agent/agent.py
@@ -248,7 +248,7 @@ class FoundryDigitalWorkerAgent(AgentInterface):
                     return email_turn.resolve_by_email(cmd[0], cmd[1], sender)
                 return await email_turn.run_email_turn(
                     self,
-                    "You received a new email. Please look at it and write your reply in Markdown. "
+                    "You received a new email. Please look at it and answer the sender directly in Markdown. "
                     f"From: {sender}\nEmail:\n{html_body}",
                     self._get_conversation_id(context), context,
                 ) or "Done."
@@ -532,7 +532,7 @@ class FoundryDigitalWorkerAgent(AgentInterface):
                 if email_turn.available():  # model writes prose; code adds figures/sources/approval blocks
                     return await email_turn.run_email_turn(
                         self,
-                        "You received a new email. Please look at the email and write your reply "
+                        "You received a new email. Please look at the email and answer the sender directly "
                         f"in Markdown. From: {from_email}\nEmail details:\n{email_details}",
                         conversation_id, context,
                     ) or "Email notification processed."

diff --git a/agents/advanced-autopilot-agent/hello_world_a365_agent/email_turn.py b/agents/advanced-autopilot-agent/hello_world_a365_agent/email_turn.py
@@ -37,7 +37,8 @@ EMAIL_FORMAT_RULES = (
     "Do not invent numbers; never write other bracketed words. No backticks, no field names such as `unread_today_by_category`; say it in plain words.\n"
     "- Every list_messages / list_events result has a `totals` object computed exactly over the whole mailbox and "
     "calendar. Whenever you state a count, quote `totals` verbatim; never count rows or estimate.\n"
-    "- When asked to draft a reply, call propose_reply once with the full draft (fetch the email first if needed). "
+    "- Your own reply to the sender is the Markdown you write; it is not a draft. Call propose_reply only when the "
+    "sender asks you to draft a reply to a particular email, and then once only: call propose_reply once with the full draft (fetch the email first if needed). "
     "Say the draft awaits approval by reply; never claim it was sent. Do not write the approval instructions "
     "yourself.\n"
     "- To summarise the inbox and day, call list_messages (top=30) and list_events once each.\n"
